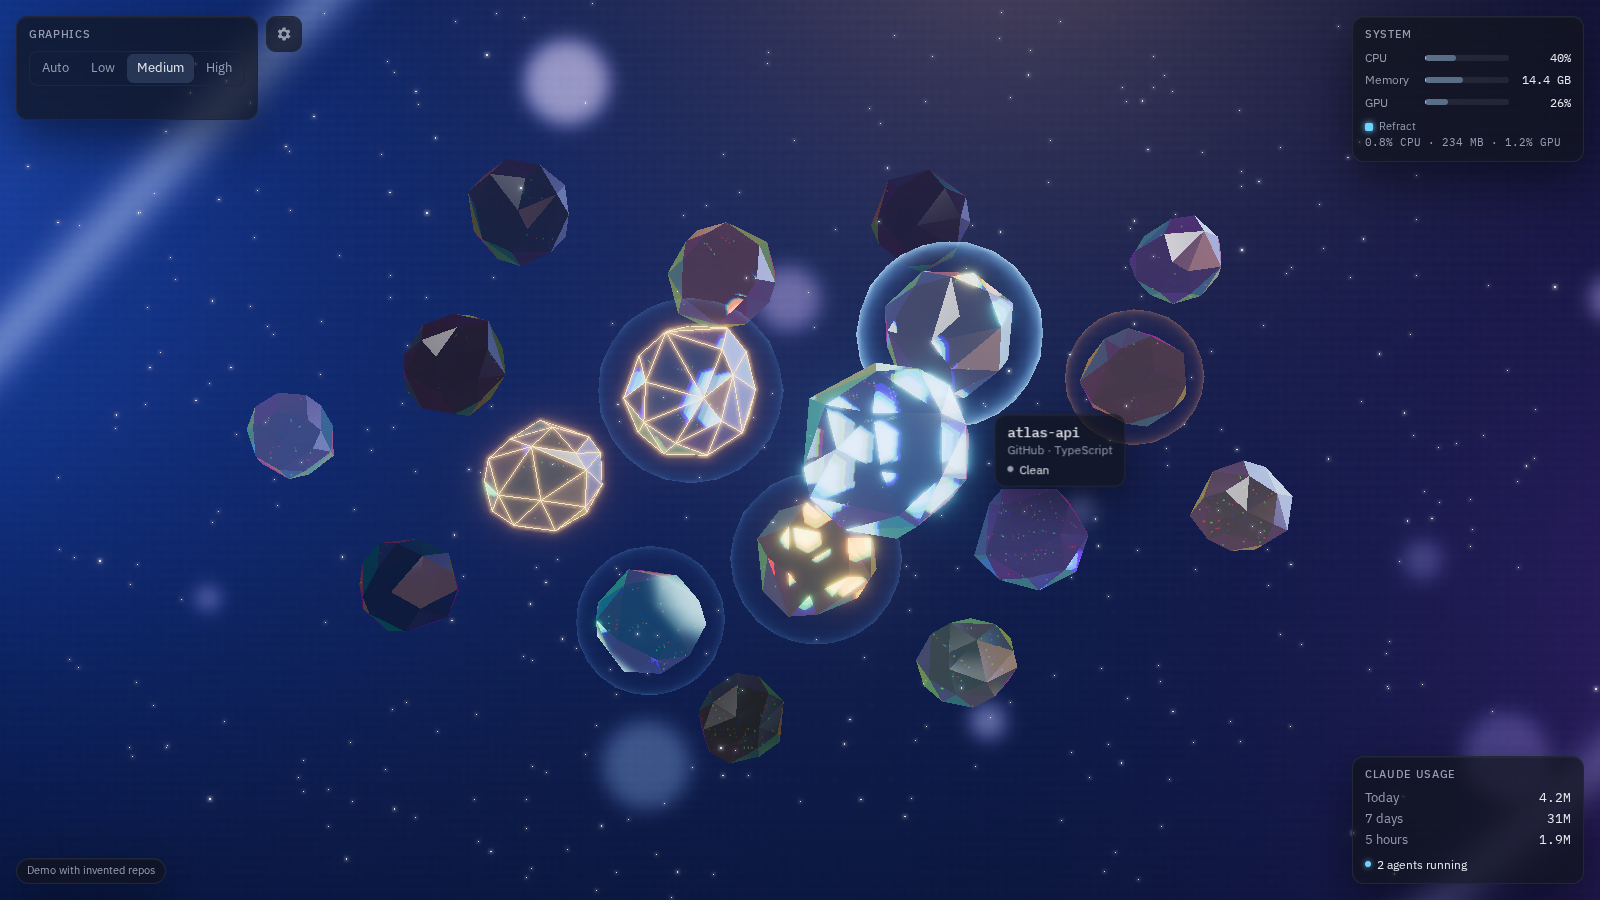
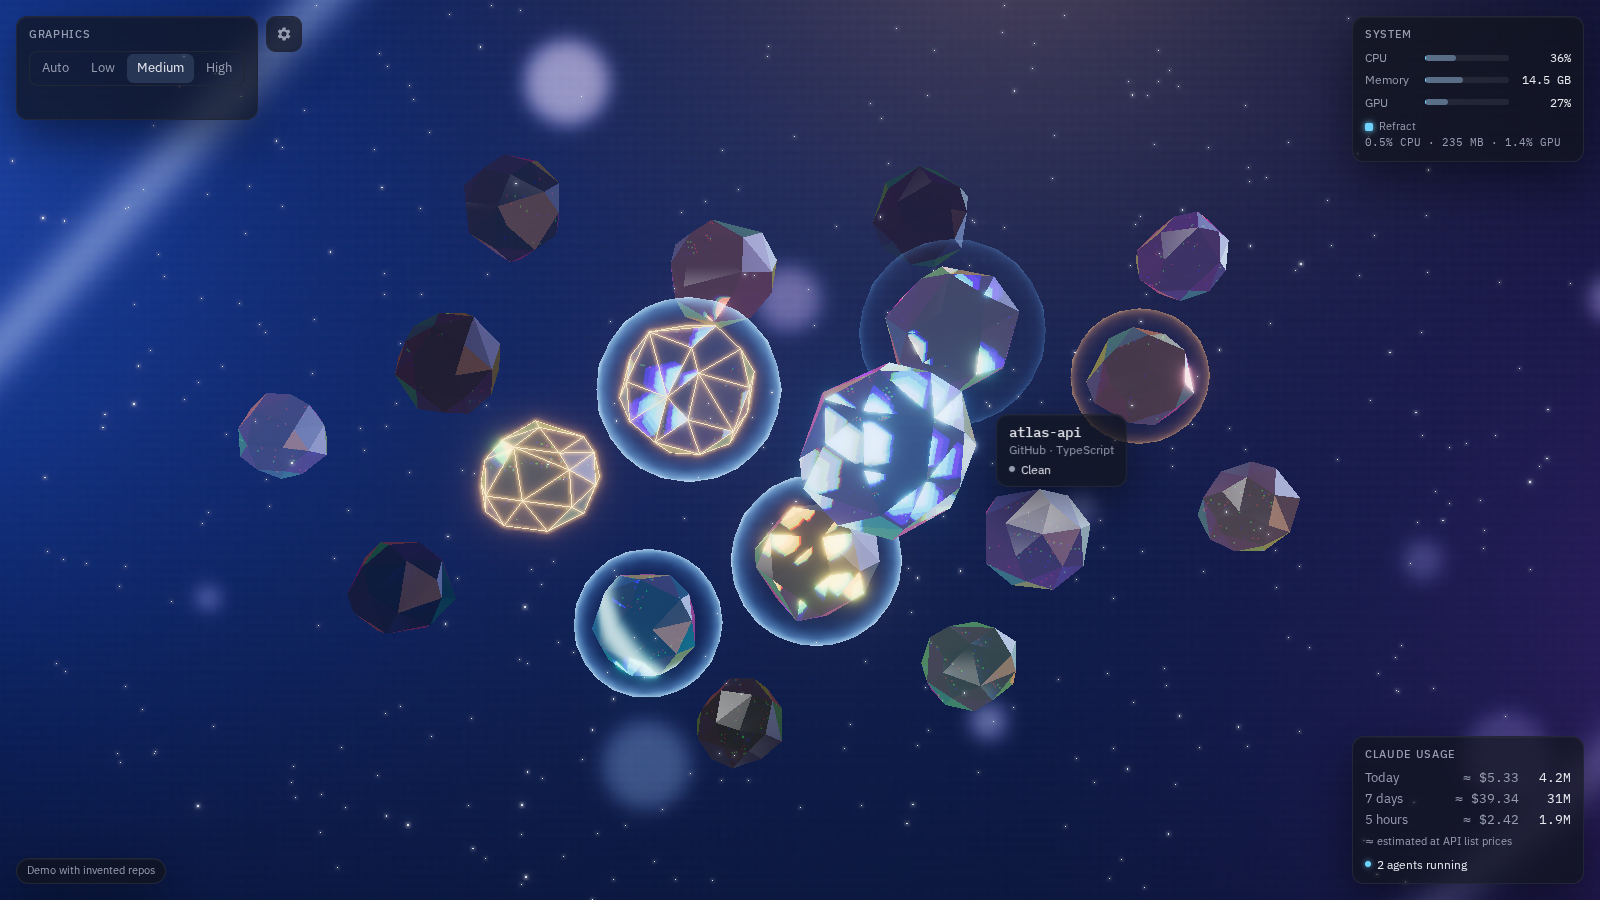
Re-record the README demo GIF and screenshot

diff --git a/app/scripts/make-gif.py b/app/scripts/make-gif.py
@@ -17,7 +17,7 @@ WIDTH = 800
 COLOURS = 128
 # Pixels whose channels all changed by less than this since the last frame stay
 # transparent, so the slow shimmer of the backdrop costs almost nothing.
-STILL = 16
+STILL = 20
 
 # An arrow pointer, tip at (0, 0), in screenshot pixels.
 ARROW = [(0, 0), (0, 17), (4, 13), (7, 20), (10, 19), (7, 12), (12, 12)]
